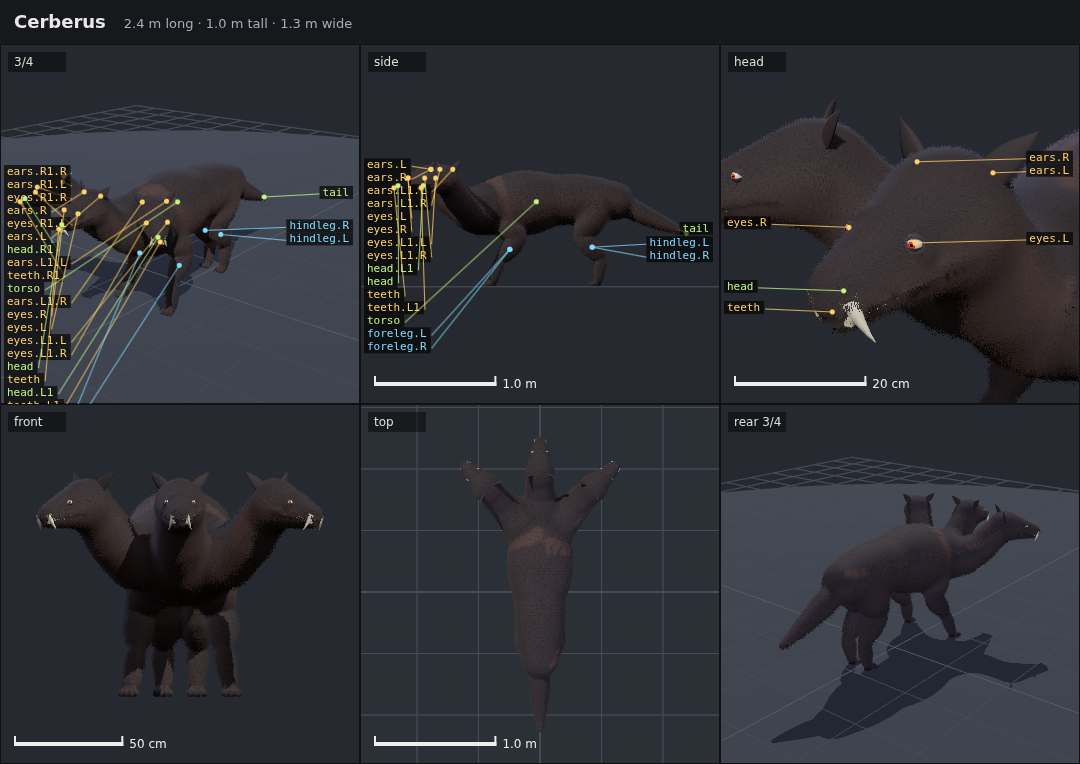
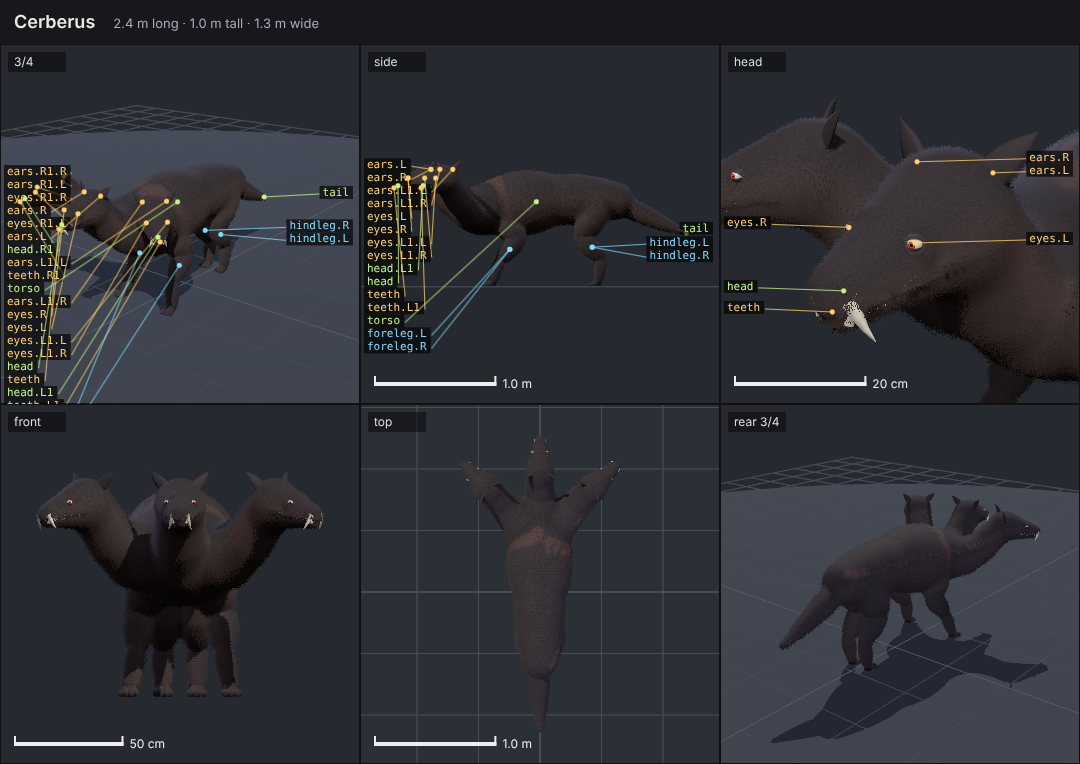
Gate 9: part and compile budgets for several heads
The hydra's five rows of teeth came to 21.5k part triangles (budget 20k):
part modules now see how many heads a part is copied to (ctx.copies), and
teeth.row builds each copy a little coarser (14.7k). The cerberus compiled
in 647 ms in Chrome: matching eyelid vertices to the skin compared every
pair across three heads; a search sorted along x finds the same vertices
(440 ms). Goldens and renders change for the hydra and the cerberus only.
budgets.ts takes the median of three warm Chrome compiles and can measure
named examples; eval/blind.ts reads the suite from run.json and takes a
threshold.

Claude-Session: https://claude.ai/code/session_01EPUHyJf4kVsVKDtYaaeTXp

diff --git a/eval/blind.ts b/eval/blind.ts
@@ -3,22 +3,32 @@
  *
  *   node eval/blind.ts prepare eval/runs/<run>   renders each prompt's final valid blueprint
  *                                                anonymously into <run>/blind/rNN.png, shuffled,
- *                                                and writes the key to <run>/blind-key.json
- *   node eval/blind.ts score eval/runs/<run>     compares <run>/blind-answers.json with the key
+ *                                                and writes the key to <run>/blind-key.json and
+ *                                                the prompt list to <run>/blind/prompts.md
+ *   node eval/blind.ts score eval/runs/<run> [--threshold n]
+ *                                                compares <run>/blind-answers.json with the key
+ *                                                (gate: n matches, default 16)
  *
- * The reviewer sees only the images and the prompt list; never the key or the blueprints.
+ * The suite comes from the run's run.json (`"suite": "b"` uses prompts-b.json). The reviewer sees
+ * only the images and the prompt list; never the key or the blueprints.
  */
 import { existsSync, mkdirSync, readdirSync, readFileSync, writeFileSync } from 'node:fs';
 import { join } from 'node:path';
 import { validate } from '@spawnforge/cli';
 import { createRng } from '@spawnforge/core';
 
-const [mode, dir] = process.argv.slice(2);
+const [mode, dir, ...rest] = process.argv.slice(2);
 if (!dir || (mode !== 'prepare' && mode !== 'score')) {
-  console.error('usage: node eval/blind.ts prepare|score <run folder>');
+  console.error('usage: node eval/blind.ts prepare|score <run folder> [--threshold n]');
   process.exit(2);
 }
-const prompts = JSON.parse(readFileSync(new URL('./prompts.json', import.meta.url), 'utf8')) as {
+const flag = rest.indexOf('--threshold');
+const threshold = flag >= 0 ? Number(rest[flag + 1]) : 16;
+const runInfo = existsSync(join(dir, 'run.json'))
+  ? (JSON.parse(readFileSync(join(dir, 'run.json'), 'utf8')) as { suite?: string })
+  : {};
+const suiteFile = runInfo.suite === 'b' ? './prompts-b.json' : './prompts.json';
+const prompts = JSON.parse(readFileSync(new URL(suiteFile, import.meta.url), 'utf8')) as {
   id: string;
   prompt: string;
 }[];
@@ -62,6 +72,11 @@ if (mode === 'prepare') {
   }
   await renderer.close();
   writeFileSync(join(dir, 'blind-key.json'), `${JSON.stringify(key, null, 2)}\n`);
+  // The prompts in id order, for the reviewer (the order says nothing about the renders').
+  writeFileSync(
+    join(dir, 'blind', 'prompts.md'),
+    `# Prompts\n\n${prompts.map((p) => `- \`${p.id}\`: ${p.prompt}`).join('\n')}\n`,
+  );
   console.log(`rendered ${order.length} creatures into ${join(dir, 'blind')}`);
 } else {
   const key = JSON.parse(readFileSync(join(dir, 'blind-key.json'), 'utf8')) as Record<
@@ -78,13 +93,13 @@ if (mode === 'prepare') {
     correct: answers[render] === truth,
   }));
   const correct = rows.filter((r) => r.correct).length;
-  const summary = { correct, total: rows.length, threshold: 16, gate: correct >= 16, rows };
+  const summary = { correct, total: rows.length, threshold, gate: correct >= threshold, rows };
   writeFileSync(join(dir, 'blind-score.json'), `${JSON.stringify(summary, null, 2)}\n`);
   for (const r of rows)
     console.log(
       `${r.render}  ${r.correct ? 'ok  ' : 'MISS'}  answer ${r.answer || '-'}  truth ${r.truth}`,
     );
   console.log(
-    `\n${correct}/${rows.length} matched. Gate (≥ 16): ${summary.gate ? 'PASS' : 'FAIL'}`,
+    `\n${correct}/${rows.length} matched. Gate (≥ ${threshold}): ${summary.gate ? 'PASS' : 'FAIL'}`,
   );
 }

diff --git a/scripts/budgets.ts b/scripts/budgets.ts
@@ -2,7 +2,9 @@
  * Measures the plan's budgets: compile time (Node, and Chromium as in the sandbox), skin
  * triangles, draw calls and motion update time for one and for 50 creatures.
  *
- *   node scripts/budgets.ts [--out report.json]
+ *   node scripts/budgets.ts [name …] [--out report.json]
+ *
+ * Names limit it to those examples (the herd still walks the ones measured).
  */
 import { readdirSync, readFileSync, writeFileSync } from 'node:fs';
 import { parseArgs } from 'node:util';
@@ -17,7 +19,10 @@ import {
 import { basicPack } from '@spawnforge/modules';
 import { Renderer } from '@spawnforge/render';
 
-const { values } = parseArgs({ options: { out: { type: 'string' } } });
+const { values, positionals } = parseArgs({
+  allowPositionals: true,
+  options: { out: { type: 'string' } },
+});
 const registry = createRegistry([basicPack]);
 const dir = new URL('../examples/', import.meta.url);
 const examples = readdirSync(dir)
@@ -26,7 +31,8 @@ const examples = readdirSync(dir)
     name: f.replace('.json', ''),
     lines: readFileSync(new URL(f, dir), 'utf8').split('\n').length,
     blueprint: JSON.parse(readFileSync(new URL(f, dir), 'utf8')),
-  }));
+  }))
+  .filter((e) => positionals.length === 0 || positionals.includes(e.name));
 
 const median = (xs: number[]) => [...xs].sort((a, b) => a - b)[Math.floor(xs.length / 2)] ?? 0;
 const ground = testCourse(1, 0.3, 2);
@@ -44,9 +50,14 @@ try {
       return performance.now() - t;
     });
     const c = compiled.at(-1) as CompiledCreature;
-    // In Chromium, through the render page (the second render is warm).
+    // In Chromium, through the render page: the median of three warm compiles.
     await renderer.render({ blueprint, size: 64, views: ['side'] });
-    const chrome = (await renderer.render({ blueprint, size: 64, views: ['side'] })).info.compileMs;
+    const chromeTimes: number[] = [];
+    for (let i = 0; i < 3; i++)
+      chromeTimes.push(
+        (await renderer.render({ blueprint, size: 64, views: ['side'] })).info.compileMs,
+      );
+    const chrome = median(chromeTimes);
     const controller = new MotionController(c, { registry });
     controller.drive(controller.paceSpeed(), 0.3);
     for (let i = 0; i < 600; i++) controller.update(1 / 60, { ground });

diff --git a/packages/core/src/compile/compile.ts b/packages/core/src/compile/compile.ts
@@ -748,17 +748,42 @@ export function compileCreature(
       skinIndex: grow(skinPack.skinIndex, added * 4, (n) => new Uint16Array(n)),
       skinWeight: grow(skinPack.skinWeight, added * 4, (n) => new Float32Array(n)),
     };
+    // The nearest candidate for each lid vertex, the lowest index on a tie: candidates sorted
+    // along x, searched outward from the vertex's x until x alone is further than the best, so
+    // several heads' lids (a cerberus's) do not compare every pair (gate 9).
     const q = new Vector3();
+    const byX = [...near].sort(
+      (a, b) => (positions[a * 3] as number) - (positions[b * 3] as number) || a - b,
+    );
+    const xs = byX.map((s) => positions[s * 3] as number);
     for (let v = 0; v < added; v++) {
       p.fromArray(lid.positions, v * 3);
       let best = -1;
       let bestD = Infinity;
-      for (const s of near) {
+      let lo = 0;
+      let hi = xs.length;
+      while (lo < hi) {
+        const m = (lo + hi) >> 1;
+        if ((xs[m] as number) < p.x) lo = m + 1;
+        else hi = m;
+      }
+      const consider = (k: number) => {
+        const s = byX[k] as number;
         const d = q.fromArray(positions, s * 3).distanceToSquared(p);
-        if (d < bestD) {
+        if (d < bestD || (d === bestD && s < best)) {
           bestD = d;
           best = s;
         }
+      };
+      for (let k = lo; k < xs.length; k++) {
+        const dx = (xs[k] as number) - p.x;
+        if (dx * dx > bestD) break;
+        consider(k);
+      }
+      for (let k = lo - 1; k >= 0; k--) {
+        const dx = p.x - (xs[k] as number);
+        if (dx * dx > bestD) break;
+        consider(k);
       }
       const w = n0 + v;
       if (best >= 0) {

diff --git a/packages/core/src/compile/parts.ts b/packages/core/src/compile/parts.ts
@@ -122,6 +122,11 @@ export interface PartBuildContext {
   readonly id: string;
   readonly baseId: string;
   readonly type: string;
+  /**
+   * How many copies of this part the creature has, one per head it is copied to (1 for most):
+   * a part on five heads may build each copy coarser to stay within the part budget.
+   */
+  readonly copies: number;
   /** Metres per torso length. */
   readonly scale: number;
   readonly mirror: 1 | -1 | 0;
@@ -438,6 +443,11 @@ export function buildParts(
       weights: readonly (readonly [number, number])[];
     }
   >();
+
+  // Copies of a part, one per head (a mirrored pair counts once).
+  const copies = new Map<string, number>();
+  for (const part of parts)
+    if (part.mirror !== -1) copies.set(part.baseId, (copies.get(part.baseId) ?? 0) + 1);
 
   const resolveColor = (value: unknown, fallback: string) => {
     if (typeof value === 'string') return input.palette[value] ?? toHex(value) ?? fallback;
@@ -902,6 +912,7 @@ export function buildParts(
     id,
     baseId,
     type,
+    copies: copies.get(baseId) ?? 1,
     scale: input.scale,
     mirror,
     at: place.at,

diff --git a/packages/modules/src/parts/teeth.row.ts b/packages/modules/src/parts/teeth.row.ts
@@ -121,11 +121,14 @@ export default definePart({
             // Out of the mouth is the socket's -X on the upper row and +X on the lower, times
             // the side of the head.
             const outward = (row === 'upper' ? -1 : 1) * side * LEAN[tooth.kind] * length;
+            // On several heads each row is a little coarser, so a hydra's teeth stay within the
+            // part budget (gate 9).
+            const coarse = ctx.copies > 1;
             const path = ctx.geo
-              .arc(length, bend, { segments: 4 })
+              .arc(length, bend, { segments: coarse ? 3 : 4 })
               .map((q, i, all) => q.clone().setX(q.x + (outward * i) / (all.length - 1)));
             const piece = ctx.geo.sweep(path, (u) => base * (1 - u * 0.95), {
-              sides: 6,
+              sides: coarse ? 5 : 6,
               tip: 'point',
             });
             // A quarter of each tooth stands in the gum.
